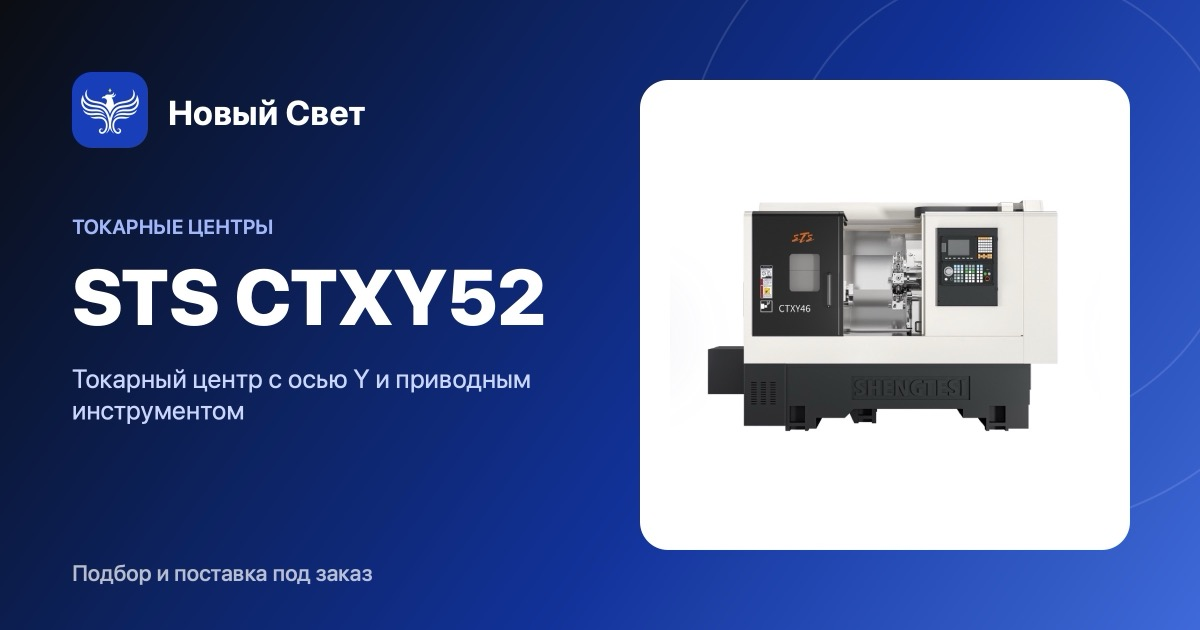
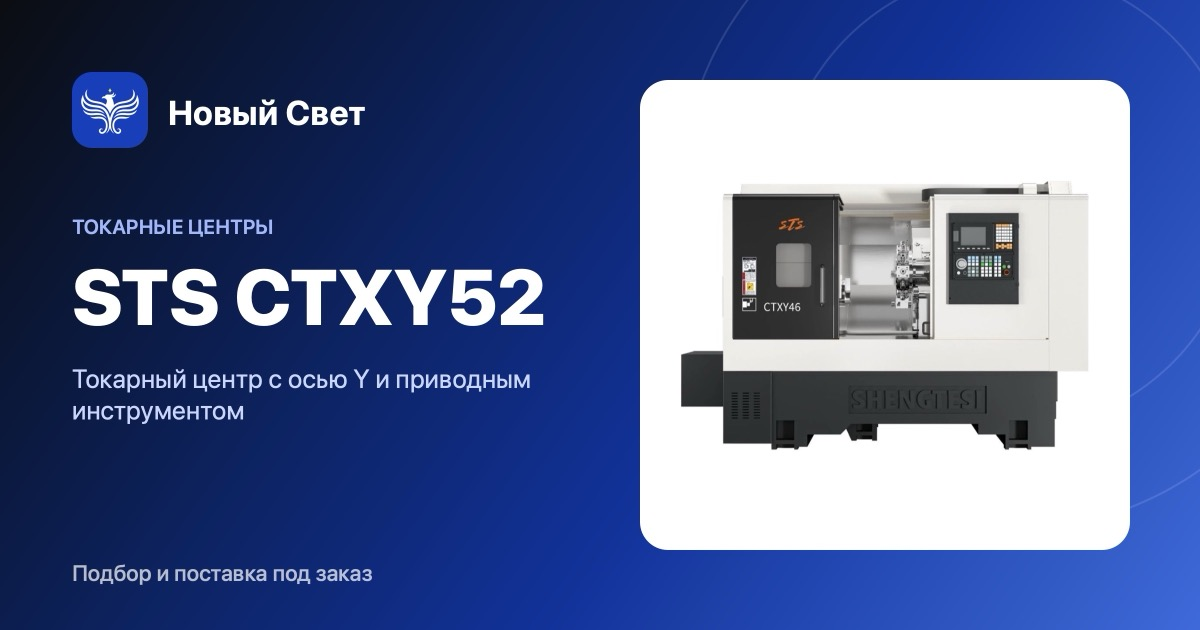
Фото STS HX, ANTS FX-12S, уточнено фото CTXY (присланы заказчиком)

Changed region(s): [[0.555, 0.2714, 0.925, 0.7238]]

diff --git a/catalog-stock.js b/catalog-stock.js
@@ -8,8 +8,8 @@
   {"id": "st-sts-ct52-500", "status": "stock", "cond": "new", "type": "Токарные центры", "country": "Китай", "brand": "STS", "model": "STS CT52-500", "title": "Токарный станок с ЧПУ", "variants": "", "img": "assets/catalog/st-sts-ct.jpg", "price": "58 500 USD", "priceOld": "80 700 USD", "priceNote": "с НДС 22%", "used": null, "eta": [], "specs": {"Ø точения": "320 мм", "Длина": "500 мм", "Патрон": "8″", "ЧПУ": "Syntec"}},
   {"id": "st-sts-ct8-750", "status": "stock", "cond": "new", "type": "Токарные центры", "country": "Китай", "brand": "STS", "model": "STS CT8-750", "title": "Токарный станок с ЧПУ", "variants": "", "img": "assets/catalog/st-sts-ct.jpg", "price": "62 900 USD", "priceOld": "89 600 USD", "priceNote": "с НДС 22%", "used": null, "eta": [], "specs": {"Ø точения": "500 мм", "Длина": "750 мм", "Патрон": "10″", "ЧПУ": "Syntec"}},
   {"id": "st-sts-ctxy52", "status": "stock", "cond": "new", "type": "Токарные центры", "country": "Китай", "brand": "STS", "model": "STS CTXY52", "title": "Токарный центр с осью Y и приводным инструментом", "variants": "", "img": "assets/catalog/st-sts-ctxy.jpg", "price": "88 500 USD", "priceOld": "121 000 USD", "priceNote": "с НДС 22%", "used": null, "eta": [], "specs": {"Ø точения": "320 мм", "Длина": "500 мм", "Патрон": "8″", "Ось": "Y, 12 приводных BMT55"}},
-  {"id": "st-sts-hx46", "status": "stock", "cond": "new", "type": "Токарные центры", "country": "Китай", "brand": "STS", "model": "STS HX46 с роботом", "title": "Токарный станок с ЧПУ и портальным роботом-загрузчиком", "variants": "", "img": "", "price": "58 500 USD", "priceOld": "79 800 USD", "priceNote": "с НДС 22%", "used": null, "eta": [], "specs": {"Ø точения": "380 мм", "Длина": "250 мм", "Патрон": "6″", "Загрузка": "портальный робот"}},
-  {"id": "st-ants-fx12s", "status": "stock", "cond": "new", "type": "Шлифовальные станки", "country": "Китай", "brand": "ANTS", "model": "ANTS FX-12S", "title": "Бесцентрово-шлифовальный станок", "variants": "", "img": "", "price": "49 800 USD", "priceOld": "", "priceNote": "с НДС 22%", "used": null, "eta": [], "specs": {"Ø шлифования": "1–40 мм", "Мощность двигателя": "5 кВт"}},
+  {"id": "st-sts-hx46", "status": "stock", "cond": "new", "type": "Токарные центры", "country": "Китай", "brand": "STS", "model": "STS HX46 с роботом", "title": "Токарный станок с ЧПУ и портальным роботом-загрузчиком", "variants": "", "img": "assets/catalog/st-sts-hx.jpg", "price": "58 500 USD", "priceOld": "79 800 USD", "priceNote": "с НДС 22%", "used": null, "eta": [], "specs": {"Ø точения": "380 мм", "Длина": "250 мм", "Патрон": "6″", "Загрузка": "портальный робот"}},
+  {"id": "st-ants-fx12s", "status": "stock", "cond": "new", "type": "Шлифовальные станки", "country": "Китай", "brand": "ANTS", "model": "ANTS FX-12S", "title": "Бесцентрово-шлифовальный станок", "variants": "", "img": "assets/catalog/st-ants-fx12s.jpg", "price": "49 800 USD", "priceOld": "", "priceNote": "с НДС 22%", "used": null, "eta": [], "specs": {"Ø шлифования": "1–40 мм", "Мощность двигателя": "5 кВт"}},
   {"id": "st-diamond-p3015", "status": "stock", "cond": "new", "type": "Листообработка", "country": "Китай", "brand": "DIAMOND", "model": "DIAMOND P3015 6000W D", "title": "Установка лазерной резки", "variants": "", "img": "", "price": "58 000 USD", "priceOld": "111 900 USD", "priceNote": "с НДС 22%", "used": null, "eta": [], "specs": {"Стол": "3000 × 1500 мм", "Источник": "RAYCUS 6000 Вт", "Паллеты": "сменные", "Голова": "BOCI BLT 421S"}},
   {"id": "tr-diamond-ag600-siemens", "status": "transit", "cond": "new", "type": "5-осевые центры", "country": "Китай", "brand": "DIAMOND", "model": "DIAMOND SmartLine AG-600 (Siemens)", "title": "5-осевой фрезерный обрабатывающий центр", "variants": "", "img": "", "price": "435 000 USD", "priceOld": "", "priceNote": "с НДС 22%", "used": null, "eta": [], "specs": {"Стол": "Ø630 мм", "Ходы X/Y/Z": "700/900/500 мм", "Шпиндель": "15 000 об/мин, 33 кВт", "ЧПУ": "Siemens One"}},
   {"id": "tr-diamond-ag600-syntec", "status": "transit", "cond": "new", "type": "5-осевые центры", "country": "Китай", "brand": "DIAMOND", "model": "DIAMOND SmartLine AG-600 (Syntec)", "title": "5-осевой фрезерный обрабатывающий центр", "variants": "", "img": "", "price": "350 000 USD", "priceOld": "", "priceNote": "с НДС 22%", "used": null, "eta": [], "specs": {"Стол": "Ø630 мм", "Ходы X/Y/Z": "700/900/500 мм", "Шпиндель": "15 000 об/мин, 33 кВт", "ЧПУ": "Syntec"}},

diff --git a/series/st-sts-hx46.html b/series/st-sts-hx46.html
@@ -13,9 +13,9 @@
 <link rel="manifest" href="../manifest.webmanifest">
 <meta property="og:type" content="website"><meta property="og:site_name" content="Новый Свет"><meta property="og:locale" content="ru_RU">
 <meta property="og:title" content="STS HX46 с роботом — Новый Свет"><meta property="og:description" content="STS HX46 с роботом — токарный станок с чпу и портальным роботом-загрузчиком. Технические характеристики, модификации, подбор и поставка под заказ. STS, Китай. ООО «Новый Свет», Нижний Новгород.">
-<meta property="og:url" content="https://zarovkinvital005-create.github.io/noviysvet/series/st-sts-hx46.html"><meta property="og:image" content="https://zarovkinvital005-create.github.io/noviysvet/assets/og-image.jpg?v=2"><meta property="og:image:width" content="1200"><meta property="og:image:height" content="630">
+<meta property="og:url" content="https://zarovkinvital005-create.github.io/noviysvet/series/st-sts-hx46.html"><meta property="og:image" content="https://zarovkinvital005-create.github.io/noviysvet/assets/og/st-sts-hx46.jpg?v=2"><meta property="og:image:width" content="1200"><meta property="og:image:height" content="630">
 <meta name="twitter:card" content="summary_large_image">
-<script type="application/ld+json">{"@context": "https://schema.org", "@type": "Product", "name": "STS HX46 с роботом", "description": "Токарный станок с ЧПУ и портальным роботом-загрузчиком", "brand": {"@type": "Brand", "name": "STS"}, "category": "Токарные центры", "image": "https://zarovkinvital005-create.github.io/noviysvet/assets/og-image.jpg?v=2", "url": "https://zarovkinvital005-create.github.io/noviysvet/series/st-sts-hx46.html"}</script>
+<script type="application/ld+json">{"@context": "https://schema.org", "@type": "Product", "name": "STS HX46 с роботом", "description": "Токарный станок с ЧПУ и портальным роботом-загрузчиком", "brand": {"@type": "Brand", "name": "STS"}, "category": "Токарные центры", "image": "https://zarovkinvital005-create.github.io/noviysvet/assets/og/st-sts-hx46.jpg?v=2", "url": "https://zarovkinvital005-create.github.io/noviysvet/series/st-sts-hx46.html"}</script>
 <link rel="preload" href="../assets/fonts/manrope-cyrillic.woff2" as="font" type="font/woff2" crossorigin>
 <link rel="stylesheet" href="../fonts.css">
 <link rel="stylesheet" href="../styles.css">
@@ -54,7 +54,7 @@
 
 <main class="section sp-main">
   <div class="wrap sp-grid">
-    <figure class="sp-photo"><span class="sp-nophoto">Фото уточняйте у менеджера</span><span class="badge">В наличии</span></figure>
+    <figure class="sp-photo"><img src="../assets/catalog/st-sts-hx.jpg" alt="STS HX46 с роботом"><span class="badge">В наличии</span></figure>
     <div class="sp-info">
       <ul class="specs sp-facts"><li><span>Ø точения</span><b>380 мм</b></li><li><span>Длина</span><b>250 мм</b></li><li><span>Патрон</span><b>6″</b></li><li><span>Загрузка</span><b>портальный робот</b></li><li class="sp-term"><span>Срок поставки из наличия</span><b>до 1 месяца</b></li><li class="sp-price"><span>Цена (акция)</span><b><s>79 800 USD</s> 58 500 USD<small>с НДС 22%</small></b></li></ul>
       

diff --git a/series/st-ants-fx12s.html b/series/st-ants-fx12s.html
@@ -13,9 +13,9 @@
 <link rel="manifest" href="../manifest.webmanifest">
 <meta property="og:type" content="website"><meta property="og:site_name" content="Новый Свет"><meta property="og:locale" content="ru_RU">
 <meta property="og:title" content="ANTS FX-12S — Новый Свет"><meta property="og:description" content="ANTS FX-12S — бесцентрово-шлифовальный станок. Технические характеристики, модификации, подбор и поставка под заказ. ANTS, Китай. ООО «Новый Свет», Нижний Новгород.">
-<meta property="og:url" content="https://zarovkinvital005-create.github.io/noviysvet/series/st-ants-fx12s.html"><meta property="og:image" content="https://zarovkinvital005-create.github.io/noviysvet/assets/og-image.jpg?v=2"><meta property="og:image:width" content="1200"><meta property="og:image:height" content="630">
+<meta property="og:url" content="https://zarovkinvital005-create.github.io/noviysvet/series/st-ants-fx12s.html"><meta property="og:image" content="https://zarovkinvital005-create.github.io/noviysvet/assets/og/st-ants-fx12s.jpg?v=2"><meta property="og:image:width" content="1200"><meta property="og:image:height" content="630">
 <meta name="twitter:card" content="summary_large_image">
-<script type="application/ld+json">{"@context": "https://schema.org", "@type": "Product", "name": "ANTS FX-12S", "description": "Бесцентрово-шлифовальный станок", "brand": {"@type": "Brand", "name": "ANTS"}, "category": "Шлифовальные станки", "image": "https://zarovkinvital005-create.github.io/noviysvet/assets/og-image.jpg?v=2", "url": "https://zarovkinvital005-create.github.io/noviysvet/series/st-ants-fx12s.html"}</script>
+<script type="application/ld+json">{"@context": "https://schema.org", "@type": "Product", "name": "ANTS FX-12S", "description": "Бесцентрово-шлифовальный станок", "brand": {"@type": "Brand", "name": "ANTS"}, "category": "Шлифовальные станки", "image": "https://zarovkinvital005-create.github.io/noviysvet/assets/og/st-ants-fx12s.jpg?v=2", "url": "https://zarovkinvital005-create.github.io/noviysvet/series/st-ants-fx12s.html"}</script>
 <link rel="preload" href="../assets/fonts/manrope-cyrillic.woff2" as="font" type="font/woff2" crossorigin>
 <link rel="stylesheet" href="../fonts.css">
 <link rel="stylesheet" href="../styles.css">
@@ -54,7 +54,7 @@
 
 <main class="section sp-main">
   <div class="wrap sp-grid">
-    <figure class="sp-photo"><span class="sp-nophoto">Фото уточняйте у менеджера</span><span class="badge">В наличии</span></figure>
+    <figure class="sp-photo"><img src="../assets/catalog/st-ants-fx12s.jpg" alt="ANTS FX-12S"><span class="badge">В наличии</span></figure>
     <div class="sp-info">
       <ul class="specs sp-facts"><li><span>Ø шлифования</span><b>1–40 мм</b></li><li><span>Мощность двигателя</span><b>5 кВт</b></li><li class="sp-term"><span>Срок поставки из наличия</span><b>до 1 месяца</b></li><li class="sp-price"><span>Цена</span><b>49 800 USD<small>с НДС 22%</small></b></li></ul>
       

diff --git a/tools/stock_items.py b/tools/stock_items.py
@@ -44,10 +44,10 @@ STOCK_ITEMS = [
    [('Диаметр точения', '320 мм'), ('Длина точения', '500 мм'), ('Патрон', '8″'), ('Револьверная голова', '12 приводных инструментов BMT55'), ('Ось Y', 'есть'), ('Система ЧПУ', 'Syntec')], price='121 000 USD, акция 88 500 USD', img='assets/catalog/st-sts-ctxy.jpg'),
  item('st-sts-hx46', 'stock', TURN, 'Китай', 'STS', 'STS HX46 с роботом', 'Токарный станок с ЧПУ и портальным роботом-загрузчиком',
    [('Ø точения', '380 мм'), ('Длина', '250 мм'), ('Патрон', '6″'), ('Загрузка', 'портальный робот')],
-   [('Диаметр точения', '380 мм'), ('Длина точения', '250 мм'), ('Патрон', '6″'), ('Система инструментов', 'линейная'), ('Система ЧПУ', 'Syntec'), ('Автоматизация', 'портальный робот с накопителем деталей')], price='79 800 USD, акция 58 500 USD'),
+   [('Диаметр точения', '380 мм'), ('Длина точения', '250 мм'), ('Патрон', '6″'), ('Система инструментов', 'линейная'), ('Система ЧПУ', 'Syntec'), ('Автоматизация', 'портальный робот с накопителем деталей')], price='79 800 USD, акция 58 500 USD', img='assets/catalog/st-sts-hx.jpg'),
  item('st-ants-fx12s', 'stock', GRIND, 'Китай', 'ANTS', 'ANTS FX-12S', 'Бесцентрово-шлифовальный станок',
    [('Ø шлифования', '1–40 мм'), ('Мощность двигателя', '5 кВт')],
-   [('Диаметр шлифования', '1–40 мм'), ('Мощность двигателя', '5 кВт')], price='49 800 USD'),
+   [('Диаметр шлифования', '1–40 мм'), ('Мощность двигателя', '5 кВт')], price='49 800 USD', img='assets/catalog/st-ants-fx12s.jpg'),
  item('st-diamond-p3015', 'stock', LASER, 'Китай', 'DIAMOND', 'DIAMOND P3015 6000W D', 'Установка лазерной резки',
    [('Стол', '3000 × 1500 мм'), ('Источник', 'RAYCUS 6000 Вт'), ('Паллеты', 'сменные'), ('Голова', 'BOCI BLT 421S')],
    [('Размер стола', '3000 × 1500 мм, сменные паллеты'), ('Источник излучения', 'RAYCUS 6000 Вт'), ('Режущая голова', 'BOCI BLT 421S')],
